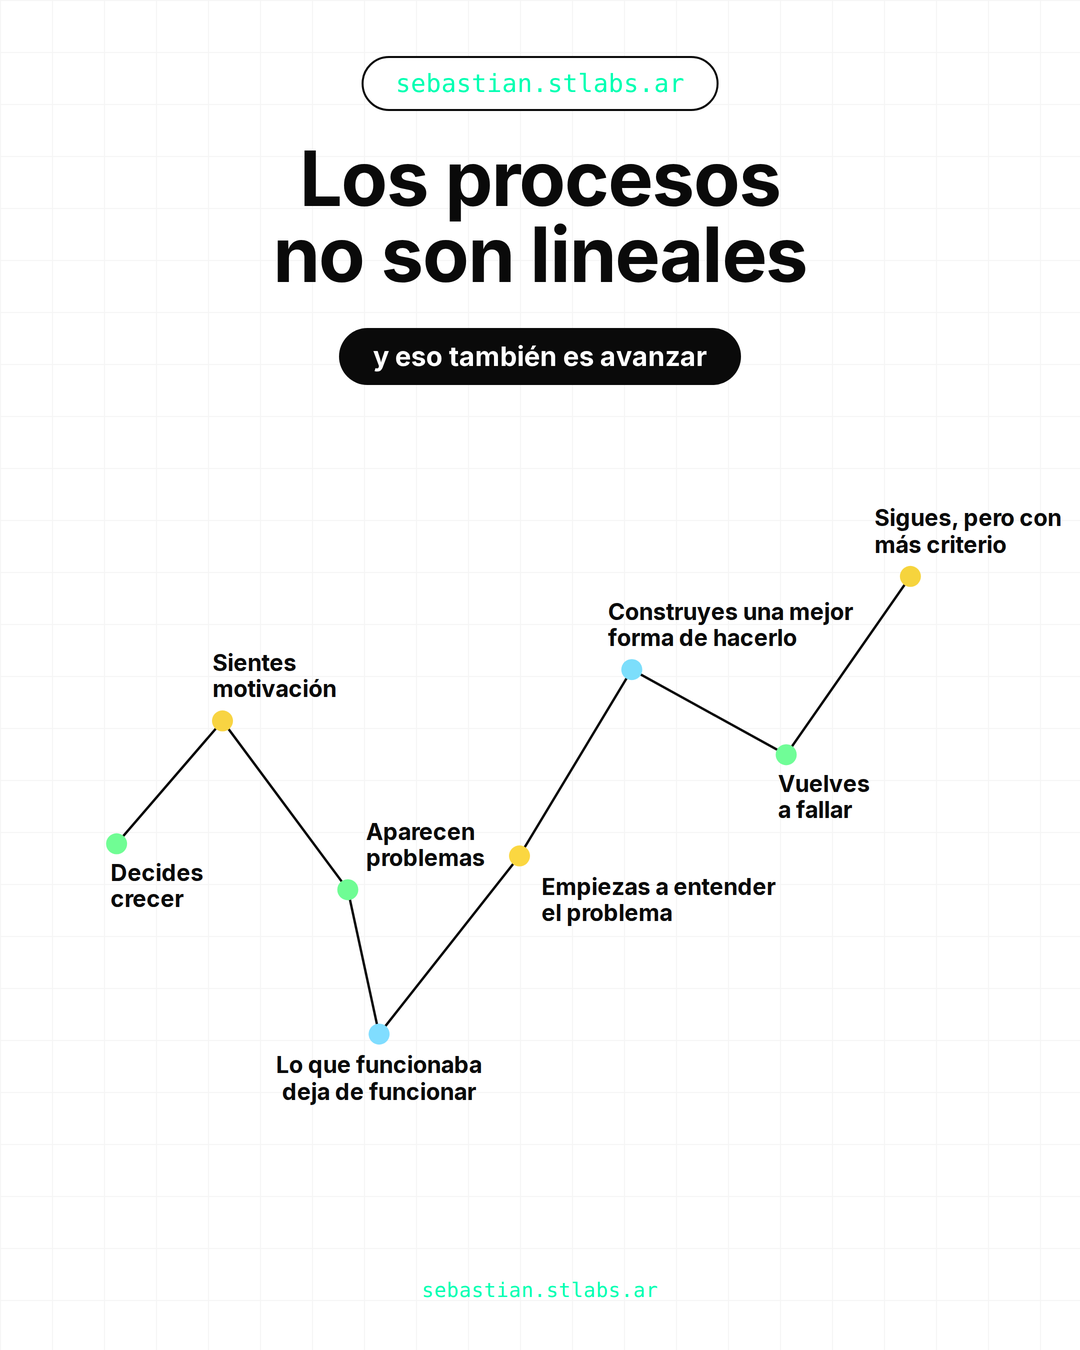
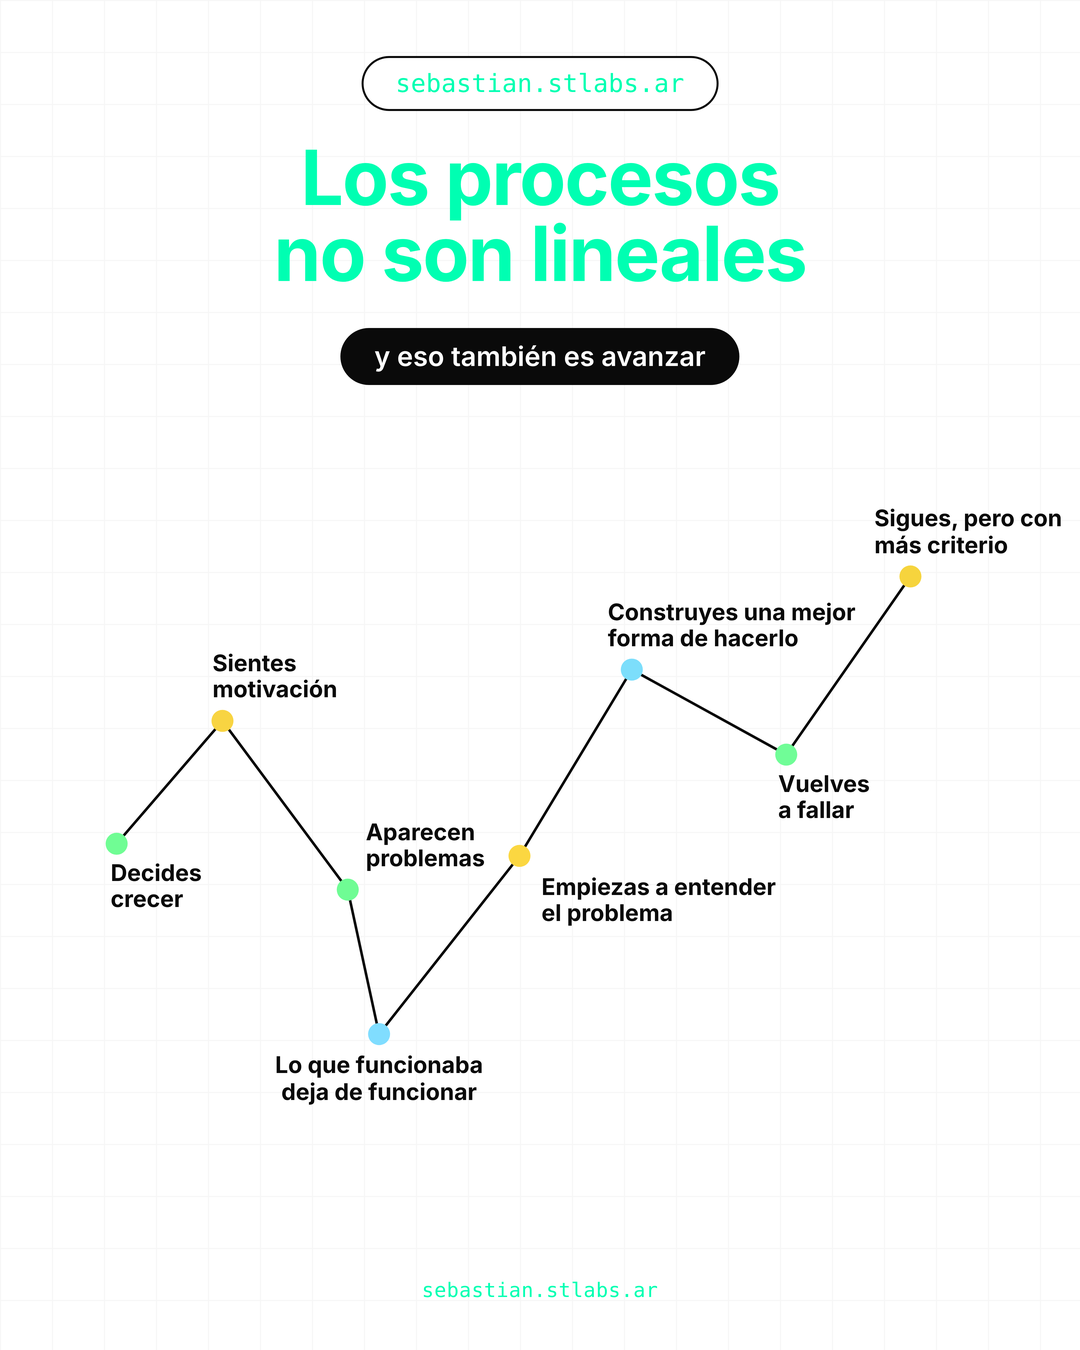
Post procesos: título verde y master 4K nítido
Render a 4× (4320×5400) para export sin pixelado; título en verde marca #00FFB2.

diff --git a/builds/2026-09-12-post-procesos-no-lineales/generate.py b/builds/2026-09-12-post-procesos-no-lineales/generate.py
@@ -1,5 +1,5 @@
 # -*- coding: utf-8 -*-
-"""Post feed: Los procesos no son lineales — clon blanco STLabs."""
+"""Post feed: Los procesos no son lineales — clon blanco STLabs (4K + título verde)."""
 from __future__ import annotations
 
 import sys
@@ -9,12 +9,11 @@ REPO = Path(__file__).resolve().parents[2]
 BUILD = Path(__file__).resolve().parent
 sys.path.insert(0, str(REPO))
 
-from stlabs_kit import package, render, write_html  # noqa: E402
+from stlabs_kit import package, write_html  # noqa: E402
 
-# Nodos medidos en la referencia (fracción del lienzo 4:5 del post)
-# Colores muestreados del original. Labels: mismo copy (solo se corrigió “eso eso”).
+# Nodos medidos en la referencia (fracción del lienzo 4:5)
 NODES = [
-    # x, y, color, lines, side, align, dx_px, dy_px
+    # x, y, color, lines, side, align, dx, dy
     (0.108, 0.625, "#70FD94", ["Decides", "crecer"], "below", "left", -6, 16),
     (0.206, 0.534, "#F8D442", ["Sientes", "motivación"], "above", "left", -10, -18),
     (0.322, 0.659, "#6FFC94", ["Aparecen", "problemas"], "above", "left", 18, -18),
@@ -33,6 +32,11 @@ EXTRA = """
 }
 @font-face{
   font-family:Inter;
+  src:url('file:///usr/share/fonts/truetype/macos/Inter-SemiBold.ttf') format('truetype');
+  font-weight:600; font-style:normal;
+}
+@font-face{
+  font-family:Inter;
   src:url('file:///usr/share/fonts/truetype/macos/Inter-Bold.ttf') format('truetype');
   font-weight:700; font-style:normal;
 }
@@ -45,10 +49,13 @@ EXTRA = """
 .slide.s-proceso{
   background:#FFFFFF;
   color:#0A0A0A;
+  -webkit-font-smoothing:antialiased;
+  -moz-osx-font-smoothing:grayscale;
+  text-rendering:geometricPrecision;
 }
 .slide.s-proceso::before{
   content:'';
-  position:absolute; inset:0; pointer-events:none; opacity:.035; z-index:0;
+  position:absolute; inset:0; pointer-events:none; opacity:.03; z-index:0;
   background-image:
     linear-gradient(#0A0A0A 1px, transparent 1px),
     linear-gradient(90deg, #0A0A0A 1px, transparent 1px);
@@ -70,7 +77,8 @@ EXTRA = """
   text-align:center;
   font-family:Inter, "Helvetica Neue", Helvetica, Arial, sans-serif;
   font-weight:800; font-size:76px; line-height:1.0;
-  letter-spacing:-1.4px; color:#0A0A0A;
+  letter-spacing:-1.4px;
+  color:#00FFB2;
 }
 .subpill{
   position:absolute; left:50%; top:328px; transform:translateX(-50%);
@@ -84,7 +92,10 @@ EXTRA = """
   position:absolute; left:0; right:0; top:0; bottom:0;
   pointer-events:none;
 }
-.graph-wrap svg{position:absolute; inset:0; width:100%; height:100%;}
+.graph-wrap svg{
+  position:absolute; inset:0; width:100%; height:100%;
+  shape-rendering:geometricPrecision;
+}
 .node-label{
   position:absolute;
   font-family:Inter, "Helvetica Neue", Helvetica, Arial, sans-serif;
@@ -109,14 +120,14 @@ EXTRA = """
 def _svg_graph() -> str:
     w, h = 1080, 1350
     pts = [(n[0] * w, n[1] * h) for n in NODES]
-    d = "M " + " L ".join(f"{x:.1f} {y:.1f}" for x, y in pts)
+    d = "M " + " L ".join(f"{x:.2f} {y:.2f}" for x, y in pts)
     circles = [
-        f'<circle cx="{x:.1f}" cy="{y:.1f}" r="10.5" fill="{n[2]}"/>'
+        f'<circle cx="{x:.2f}" cy="{y:.2f}" r="11" fill="{n[2]}"/>'
         for (x, y), n in zip(pts, NODES)
     ]
     return f"""
 <svg viewBox="0 0 {w} {h}" xmlns="http://www.w3.org/2000/svg" aria-hidden="true">
-  <path d="{d}" fill="none" stroke="#0A0A0A" stroke-width="2.4"
+  <path d="{d}" fill="none" stroke="#0A0A0A" stroke-width="2.6"
         stroke-linecap="round" stroke-linejoin="round"/>
   {''.join(circles)}
 </svg>
@@ -150,6 +161,29 @@ def build_slide() -> str:
 """
 
 
+def render_4k(build_dir: Path, html_name: str = "carrusel.html", scale: int = 4) -> Path:
+    """Render 4× (4320×5400) — master nítido, sin upscale artificial."""
+    from playwright.sync_api import sync_playwright
+
+    B = Path(build_dir)
+    png_dir = B / "png"
+    png_dir.mkdir(exist_ok=True)
+    with sync_playwright() as p:
+        br = p.chromium.launch(args=["--no-sandbox", "--disable-dev-shm-usage"])
+        pg = br.new_page(
+            viewport={"width": 1180, "height": 1450},
+            device_scale_factor=scale,
+        )
+        pg.goto((B / html_name).as_uri())
+        pg.wait_for_function("document.fonts.ready")
+        pg.wait_for_timeout(5000)
+        el = pg.query_selector(".slide")
+        out = png_dir / "slide-01.png"
+        el.screenshot(path=str(out), type="png")
+        br.close()
+    return out
+
+
 CAPTION = """Los procesos no son lineales.
 
 Y eso también es avanzar.
@@ -171,31 +205,19 @@ MANIFIESTO = """# Manifiesto de fuentes — Los procesos no son lineales
 
 | Tipografía | Peso | Rol | Origen | Carga |
 |---|---|---|---|---|
-| Inter | 800 / Bold | Título display | apt / macOS fonts (`/usr/share/fonts/truetype/macos/Inter-Bold.ttf`) | `@font-face` file:// en HTML del build |
+| Inter | 800 / Bold | Título display verde `#00FFB2` | `/usr/share/fonts/truetype/macos/Inter-Bold.ttf` | `@font-face` file:// |
 | Inter | 700 / Bold | Labels del gráfico | idem | idem |
-| Inter | 600 / SemiBold | Subtítulo en pill | Inter-Bold.ttf como 600/800 fallback | idem |
-| IBM Plex Mono | 500 / Medium | Handle + footer | `/workspace/fonts/IBMPlexMono-Medium.ttf` (kit STLabs) | embebida base64 vía `stlabs_kit.package` / FONT_FACES |
+| Inter | 600 / SemiBold | Subtítulo en pill | Inter-SemiBold.ttf | idem |
+| IBM Plex Mono | 500 / Medium | Handle + footer | kit STLabs | embebida base64 en package |
 
-Instalación local Inter (si falta):
-```bash
-# ya presente en el entorno cloud:
-ls /usr/share/fonts/truetype/macos/Inter-*.ttf
-```
-
-IBM Plex Mono:
-```bash
-python .claude/skills/carrusel-stlabs/assets/install_fonts.py
-```
+Master: **4320×5400** (4×). Export: 1080×1350 + @2x 2160×2700 + @4x.
 """
 
 
 def main() -> None:
-    write_html(
-        [build_slide()],
-        BUILD / "carrusel.html",
-        extra_css=EXTRA,
-    )
-    render(BUILD)
+    write_html([build_slide()], BUILD / "carrusel.html", extra_css=EXTRA)
+    master = render_4k(BUILD, scale=4)
+
     meta = {
         "id": "2026-09-12-post-procesos-no-lineales",
         "fecha": "2026-09-12",
@@ -206,26 +228,27 @@ def main() -> None:
         "origen": "screenshot",
         "keyword_portada": "PROCESOS",
     }
-    out_dir = package(
-        BUILD,
-        "STLabs-Post-Procesos-No-Lineales",
-        meta=meta,
-    )
+    out_dir = package(BUILD, "STLabs-Post-Procesos-No-Lineales", meta=meta)
+
     out = BUILD / "out"
     out.mkdir(exist_ok=True)
     from PIL import Image
 
-    src = BUILD / "png" / "slide-01.png"
-    im = Image.open(src).convert("RGB")
-    im.save(out / "STLabs-Post-Procesos-No-Lineales@2x.png")
-    im.resize((1080, 1350), Image.Resampling.LANCZOS).save(
-        out / "STLabs-Post-Procesos-No-Lineales.png"
+    im = Image.open(master).convert("RGB")
+    im.save(out / "STLabs-Post-Procesos-No-Lineales@4x.png", optimize=True)
+    im.resize((2160, 2700), Image.Resampling.LANCZOS).save(
+        out / "STLabs-Post-Procesos-No-Lineales@2x.png", optimize=True
     )
+    im.resize((1080, 1350), Image.Resampling.LANCZOS).save(
+        out / "STLabs-Post-Procesos-No-Lineales.png", optimize=True
+    )
+
     (BUILD / "CAPTION.txt").write_text(CAPTION, encoding="utf-8")
     (BUILD / "MANIFIESTO-FUENTES.md").write_text(MANIFIESTO, encoding="utf-8")
-    (out_dir / "CAPTION.txt").write_text(CAPTION, encoding="utf-8")
-    (out_dir / "MANIFIESTO-FUENTES.md").write_text(MANIFIESTO, encoding="utf-8")
-    print("OK", out_dir)
+    out_path = Path(out_dir)
+    (out_path / "CAPTION.txt").write_text(CAPTION, encoding="utf-8")
+    (out_path / "MANIFIESTO-FUENTES.md").write_text(MANIFIESTO, encoding="utf-8")
+    print("OK", out, "master", im.size)
 
 
 if __name__ == "__main__":

diff --git a/builds/2026-09-12-post-procesos-no-lineales/MANIFIESTO-FUENTES.md b/builds/2026-09-12-post-procesos-no-lineales/MANIFIESTO-FUENTES.md
@@ -2,18 +2,9 @@
 
 | Tipografía | Peso | Rol | Origen | Carga |
 |---|---|---|---|---|
-| Inter | 800 / Bold | Título display | apt / macOS fonts (`/usr/share/fonts/truetype/macos/Inter-Bold.ttf`) | `@font-face` file:// en HTML del build |
+| Inter | 800 / Bold | Título display verde `#00FFB2` | `/usr/share/fonts/truetype/macos/Inter-Bold.ttf` | `@font-face` file:// |
 | Inter | 700 / Bold | Labels del gráfico | idem | idem |
-| Inter | 600 / SemiBold | Subtítulo en pill | Inter-Bold.ttf como 600/800 fallback | idem |
-| IBM Plex Mono | 500 / Medium | Handle + footer | `/workspace/fonts/IBMPlexMono-Medium.ttf` (kit STLabs) | embebida base64 vía `stlabs_kit.package` / FONT_FACES |
+| Inter | 600 / SemiBold | Subtítulo en pill | Inter-SemiBold.ttf | idem |
+| IBM Plex Mono | 500 / Medium | Handle + footer | kit STLabs | embebida base64 en package |
 
-Instalación local Inter (si falta):
-```bash
-# ya presente en el entorno cloud:
-ls /usr/share/fonts/truetype/macos/Inter-*.ttf
-```
-
-IBM Plex Mono:
-```bash
-python .claude/skills/carrusel-stlabs/assets/install_fonts.py
-```
+Master: **4320×5400** (4×). Export: 1080×1350 + @2x 2160×2700 + @4x.
